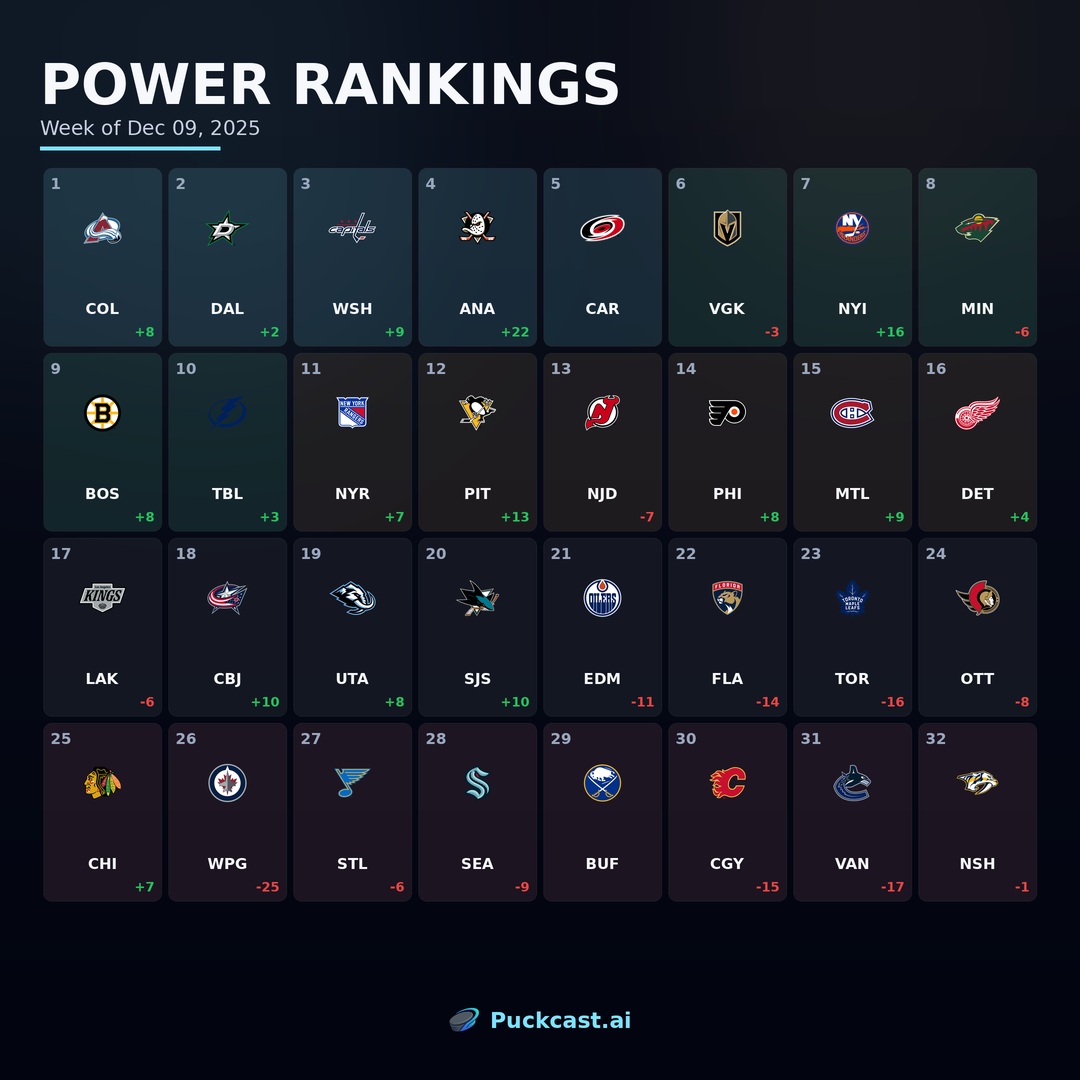
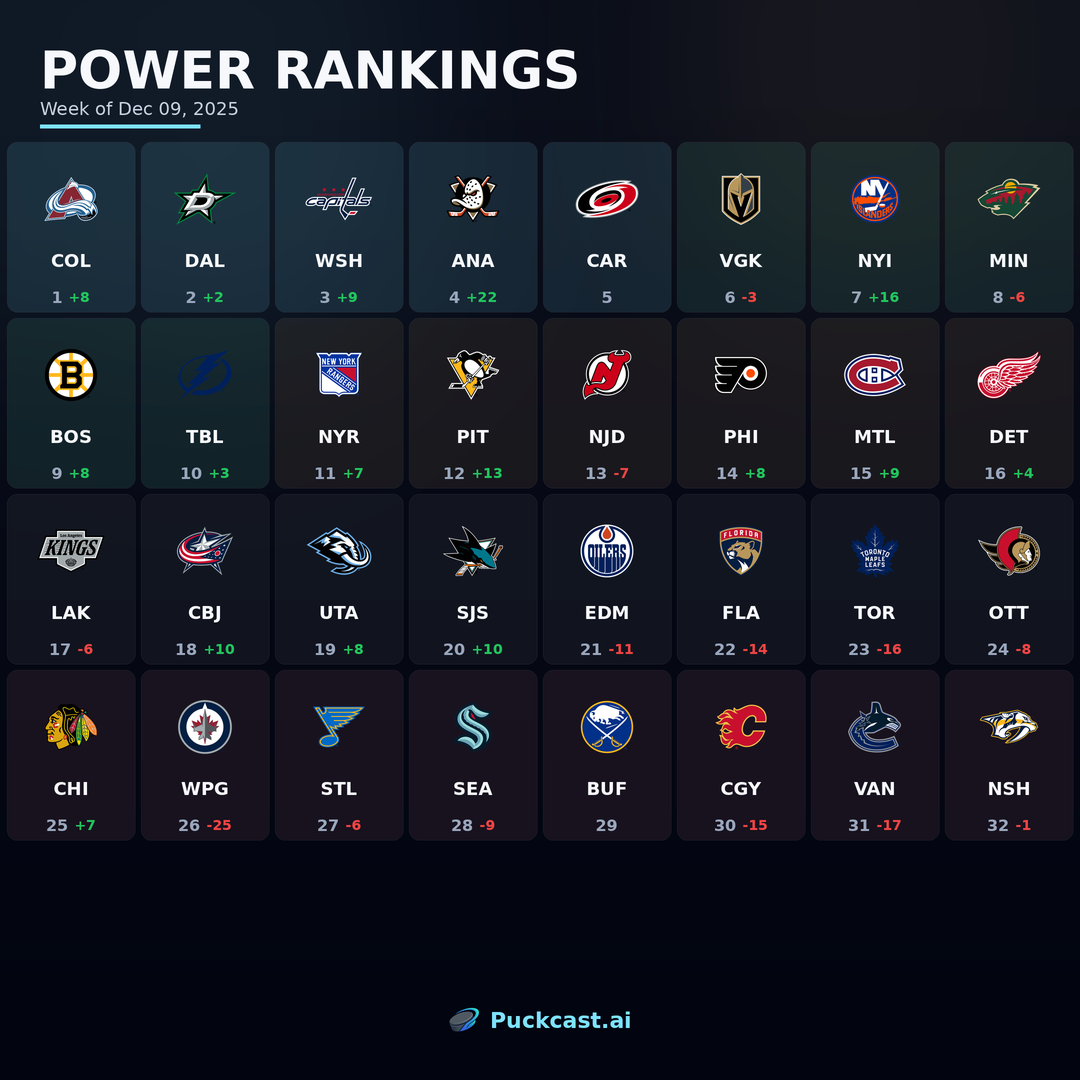
fix: redesign power rankings and fix goalie leaderboard overlap
Power Rankings:
- Increased logo size from S(64) to S(90) for prominent display
- Larger tiles (128x170) to accommodate bigger logos
- Rank and movement indicator now together at bottom center
- Cleaner layout with logo as hero element

Goalie Leaderboard:
- Reduced row height to S(92) to prevent footer overlap
- Adjusted logo size to S(60) to fit row height
- All 8 rows now fit cleanly above footer

diff --git a/graphics/templates/power_rankings.py b/graphics/templates/power_rankings.py
@@ -53,9 +53,9 @@ def draw_team_tile(
     tile_width: int,
     tile_height: int = None,
 ) -> None:
-    """Draw a single team tile in the grid."""
+    """Draw a team tile with large logo as the hero element."""
     if tile_height is None:
-        tile_height = tile_width  # Square tile if height not specified
+        tile_height = tile_width
 
     draw = ImageDraw.Draw(img)
     abbrev = team.get("abbrev", "???")
@@ -63,51 +63,66 @@ def draw_team_tile(
     delta = team.get("rankDelta", 0)
     tier = team.get("tier", "")
 
-    # Tier colors
+    # Tier colors - subtle backgrounds
     tier_colors = {
-        "elite": (126, 227, 255, 35),
-        "contender": (110, 240, 194, 30),
-        "playoff": (246, 193, 119, 25),
-        "bubble": (255, 255, 255, 15),
-        "lottery": (255, 148, 168, 25),
+        "elite": (126, 227, 255, 30),
+        "contender": (110, 240, 194, 25),
+        "playoff": (246, 193, 119, 20),
+        "bubble": (255, 255, 255, 12),
+        "lottery": (255, 148, 168, 20),
     }
-    bg_color = tier_colors.get(tier, (255, 255, 255, 15))
+    bg_color = tier_colors.get(tier, (255, 255, 255, 12))
 
     # Draw tile background
     overlay = Image.new("RGBA", img.size, (0, 0, 0, 0))
     overlay_draw = ImageDraw.Draw(overlay)
     coords = (x, y, x + tile_width, y + tile_height)
-    draw_rounded_rect(overlay_draw, coords, radius=S(8), fill=bg_color, outline=(255, 255, 255, 30), width=1)
+    draw_rounded_rect(overlay_draw, coords, radius=S(10), fill=bg_color, outline=(255, 255, 255, 25), width=1)
 
     img_rgba = img.convert("RGBA")
     result = Image.alpha_composite(img_rgba, overlay)
     draw = ImageDraw.Draw(result)
 
-    # Rank number (top left)
-    rank_font = get_font(S(15), bold=True)
-    draw.text((x + S(7), y + S(7)), str(rank), fill=hex_to_rgb(PuckcastColors.TEXT_TERTIARY), font=rank_font)
-
-    # Team logo (centered horizontally)
-    logo_size = S(64)
+    # LARGE team logo - hero element (centered)
+    logo_size = S(90)  # Much larger logo
     logo = get_logo(abbrev, logo_size)
     logo_x = x + (tile_width - logo_size) // 2
-    logo_y = y + S(28)
+    logo_y = y + S(12)
     result.paste(logo, (logo_x, logo_y), logo)
 
     # Team abbreviation - centered below logo
-    abbrev_font = get_font(S(15), bold=True)
+    abbrev_font = get_font(S(18), bold=True)
     abbrev_bbox = draw.textbbox((0, 0), abbrev, font=abbrev_font)
     abbrev_w = abbrev_bbox[2] - abbrev_bbox[0]
-    draw.text((x + (tile_width - abbrev_w) // 2, y + tile_height - S(46)), abbrev, fill=hex_to_rgb(PuckcastColors.TEXT_PRIMARY), font=abbrev_font)
+    abbrev_y = logo_y + logo_size + S(6)
+    draw.text((x + (tile_width - abbrev_w) // 2, abbrev_y), abbrev, fill=hex_to_rgb(PuckcastColors.TEXT_PRIMARY), font=abbrev_font)
 
-    # Delta indicator - bottom right
+    # Rank + Delta together at bottom center
+    rank_font = get_font(S(16), bold=True)
+    rank_text = str(rank)
+    rank_bbox = draw.textbbox((0, 0), rank_text, font=rank_font)
+    rank_w = rank_bbox[2] - rank_bbox[0]
+
+    # Calculate total width for rank + delta
+    delta_text = ""
+    delta_w = 0
     if delta != 0:
-        delta_font = get_font(S(13), bold=True)
+        delta_font = get_font(S(14), bold=True)
         delta_text = f"+{delta}" if delta > 0 else str(delta)
-        delta_color = hex_to_rgb(PuckcastColors.RISING) if delta > 0 else hex_to_rgb(PuckcastColors.FALLING)
         delta_bbox = draw.textbbox((0, 0), delta_text, font=delta_font)
-        delta_w = delta_bbox[2] - delta_bbox[0]
-        draw.text((x + tile_width - delta_w - S(7), y + tile_height - S(22)), delta_text, fill=delta_color, font=delta_font)
+        delta_w = delta_bbox[2] - delta_bbox[0] + S(6)  # gap
+
+    total_w = rank_w + delta_w
+    start_x = x + (tile_width - total_w) // 2
+    bottom_y = y + tile_height - S(24)
+
+    # Draw rank number
+    draw.text((start_x, bottom_y), rank_text, fill=hex_to_rgb(PuckcastColors.TEXT_TERTIARY), font=rank_font)
+
+    # Draw delta next to rank
+    if delta != 0:
+        delta_color = hex_to_rgb(PuckcastColors.RISING) if delta > 0 else hex_to_rgb(PuckcastColors.FALLING)
+        draw.text((start_x + rank_w + S(6), bottom_y + S(1)), delta_text, fill=delta_color, font=get_font(S(14), bold=True))
 
     img.paste(result.convert("RGB"))
 
@@ -119,27 +134,27 @@ def generate_power_rankings_image(rankings: List[Dict], week_of: str) -> Image.I
 
     margin = S(40)
 
-    # Header with proper spacing (24-30px more top padding)
-    title_font = get_font(S(56), bold=True)
-    draw.text((margin, S(52)), "POWER RANKINGS", fill=hex_to_rgb(PuckcastColors.TEXT_PRIMARY), font=title_font)
+    # Compact header
+    title_font = get_font(S(52), bold=True)
+    draw.text((margin, S(40)), "POWER RANKINGS", fill=hex_to_rgb(PuckcastColors.TEXT_PRIMARY), font=title_font)
 
-    # Subtitle with 18-24px below title
-    subtitle_font = get_font(S(20), bold=False)
-    draw.text((margin, S(116)), f"Week of {week_of}", fill=hex_to_rgb(PuckcastColors.TEXT_SECONDARY), font=subtitle_font)
+    # Subtitle
+    subtitle_font = get_font(S(18), bold=False)
+    draw.text((margin, S(98)), f"Week of {week_of}", fill=hex_to_rgb(PuckcastColors.TEXT_SECONDARY), font=subtitle_font)
 
     # Accent line
-    line_y = S(148)
-    draw.line([(margin, line_y), (margin + S(180), line_y)], fill=hex_to_rgb(PuckcastColors.AQUA), width=S(4))
+    line_y = S(126)
+    draw.line([(margin, line_y), (margin + S(160), line_y)], fill=hex_to_rgb(PuckcastColors.AQUA), width=S(4))
 
-    # Grid layout: 8 cols x 4 rows - uniform gaps
+    # Grid layout: 8 cols x 4 rows - larger tiles with big logos
     cols, rows = 8, 4
-    tile_width = S(118)
-    tile_height = S(178)
-    gap = S(7)  # Uniform horizontal and vertical gaps
+    tile_width = S(128)   # Wider tiles
+    tile_height = S(170)  # Taller tiles for big logos
+    gap = S(6)
 
     grid_width = cols * tile_width + (cols - 1) * gap
     start_x = (RENDER_SIZE - grid_width) // 2
-    start_y = line_y + S(20)  # 36-44px spacing from subtitle
+    start_y = line_y + S(16)
 
     for i, team in enumerate(rankings[:32]):
         col = i % cols

diff --git a/graphics/templates/goalie_leaderboard.py b/graphics/templates/goalie_leaderboard.py
@@ -71,9 +71,9 @@ def draw_goalie_row(
     draw.text((margin + S(4), row_center_y - rank_h // 2), str(rank), fill=rank_color, font=rank_font)
 
     # Team logo
-    logo_size = S(72)  # Slightly larger for better fill
+    logo_size = S(60)  # Sized for row height
     logo = get_logo(team, logo_size)
-    logo_x = margin + S(44)
+    logo_x = margin + S(40)
     logo_y = row_center_y - logo_size // 2
     img.paste(logo, (logo_x, logo_y), logo)
 
@@ -141,9 +141,9 @@ def generate_goalie_leaderboard_image(goalies: List[Dict]) -> Image.Image:
     line_y = S(152)
     draw.line([(margin, line_y), (margin + S(160), line_y)], fill=hex_to_rgb(PuckcastColors.AQUA), width=S(4))
 
-    # Goalie rows - consistent height with 16-18px internal padding
-    content_y = line_y + S(20)
-    row_height = S(108)  # Taller rows for proper internal padding
+    # Goalie rows - sized to fit 8 rows above footer
+    content_y = line_y + S(18)
+    row_height = S(92)  # Balanced row height
     row_gap = S(6)  # Consistent spacing between rows
 
     for i, goalie in enumerate(goalies[:8], 1):
